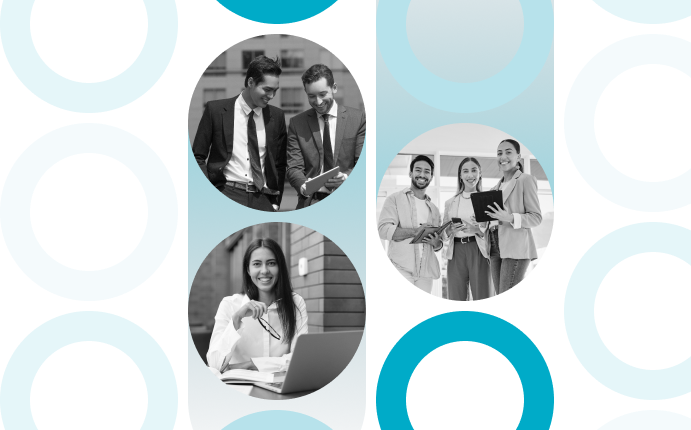
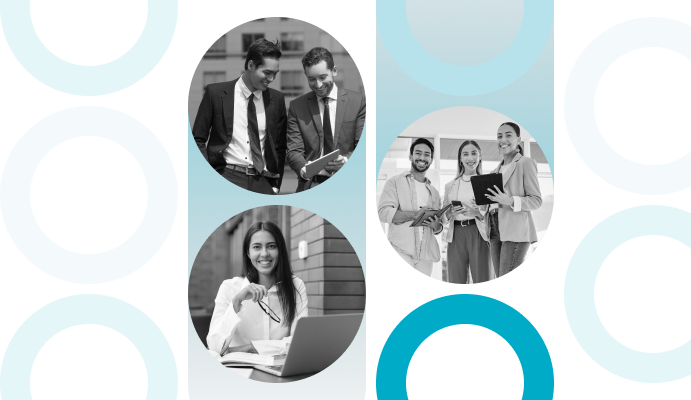
suman-add

diff --git a/assets/css/our-people.css b/assets/css/our-people.css
@@ -209,7 +209,7 @@ flex-wrap: wrap;
     transition: all 0.8s ease-in-out;
 }
 #wrapper.our-people .xas-banner {
-    height: 400px;
+    height: 380px;
     max-height: max-content;
     background: #263746;
 }
